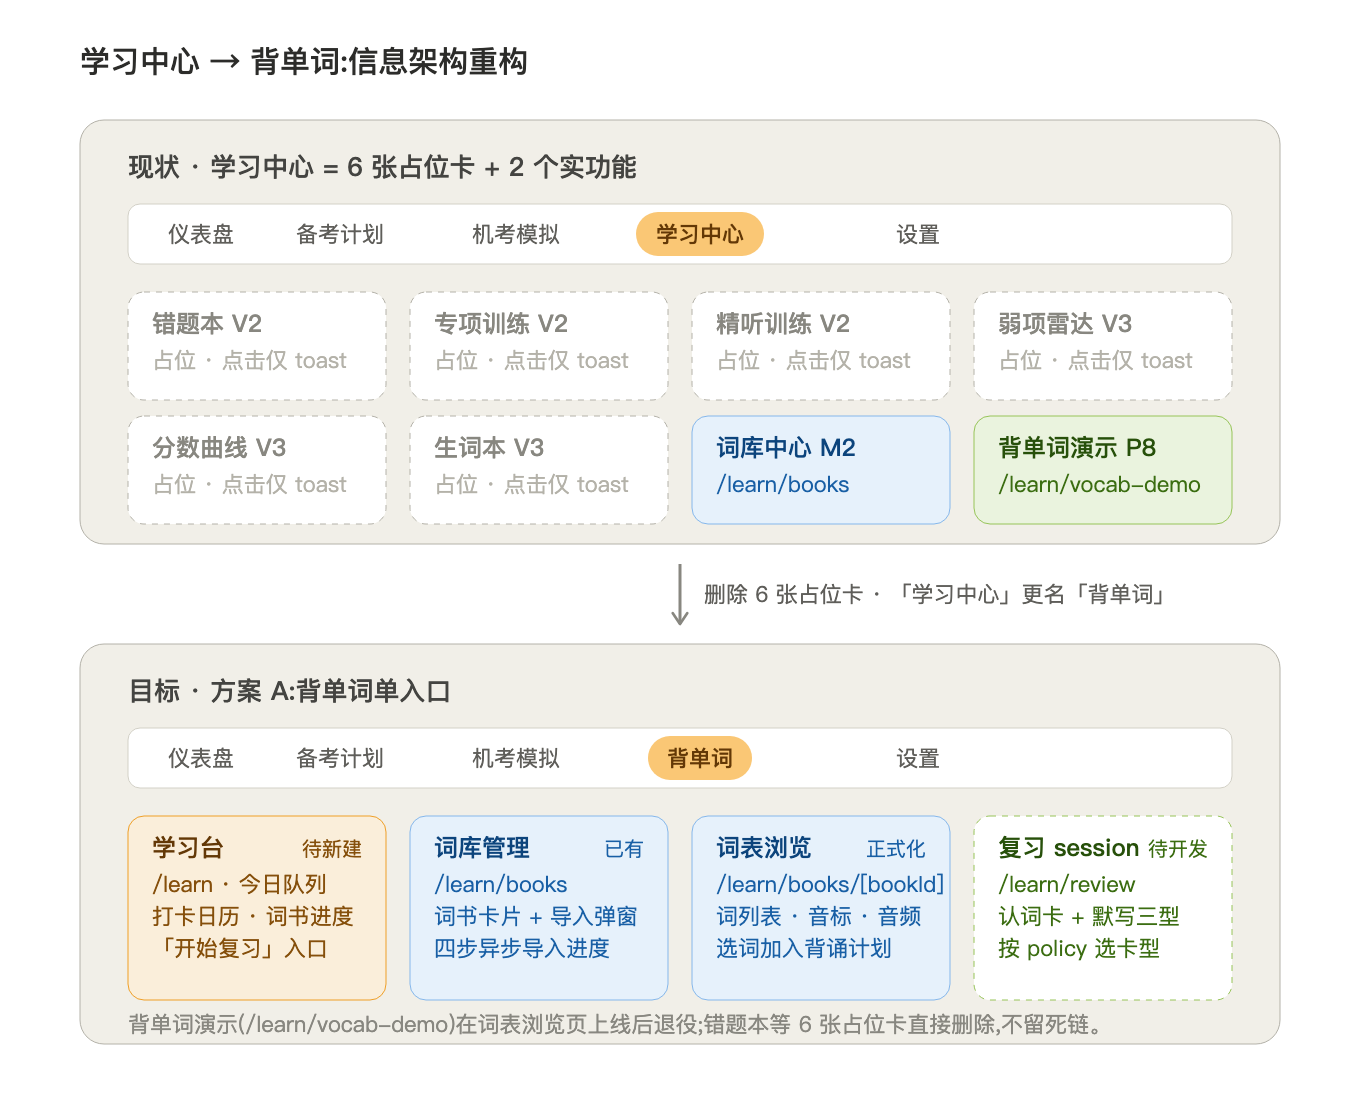
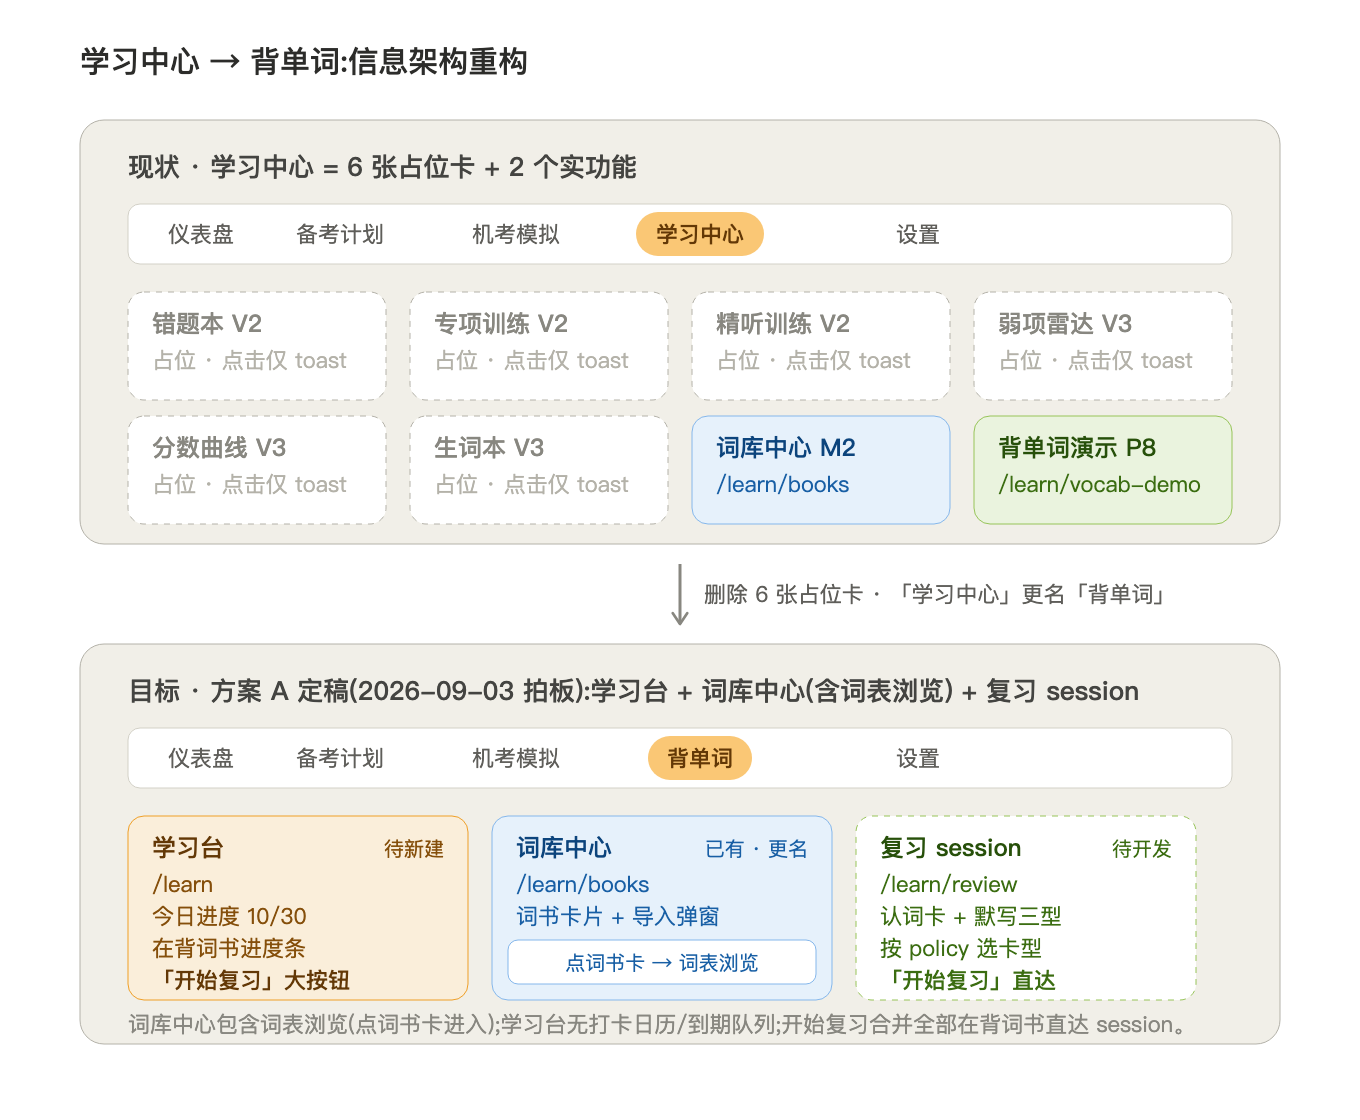
docs: 编排规划定稿 v1.1(词库中心含词表浏览/学习台今日进度+词书进度条/开始复习直达session)

Changed region(s): [[0.0926, 0.7188, 0.8956, 0.9375], [0.2162, 0.5938, 0.8338, 0.625]]

diff --git a/docs/学习中心重构-背单词页面编排规划.md b/docs/学习中心重构-背单词页面编排规划.md
@@ -1,7 +1,7 @@
 # 学习中心重构 · 背单词页面编排规划
 
-> 版本 v1.0 · 2026-09-03 · 状态:**规划待拍板,未动手**
-> 决策来源:用户拍板——学习中心 6 张占位卡(错题本/专项训练/精听训练/弱项雷达/分数曲线/生词本)全部不需要,学习中心整个页面去掉;聚焦把**背单词**和**词库管理**做好。
+> 版本 v1.1 · 2026-09-03 · 状态:**方案定稿(已拍板),未动手**
+> 决策来源:用户拍板——学习中心 6 张占位卡全部删除;词库管理改名**词库中心**且**包含词表浏览**(点词书卡进入);学习台不做到期队列、不做打卡日历,改为**今日进度 10/30 + 词书进度条 + 开始复习大按钮**。
 
 ![信息架构前后对比](assets/vocab-ia/ia-before-after.png)
 
@@ -10,62 +10,69 @@
 | 位置 | 现状 | 判定 |
 |---|---|---|
 | topbar「学习中心」 `/learn` | 8 张功能卡,6 张纯占位(点击仅 toast) | **整页删除** |
-| `/learn/books` 词库中心 | 已上线:卡片网格 + 新建/导入弹窗 + 四步进度 | **保留,升级为一级页面** |
+| `/learn/books` 词库中心 | 已上线:卡片网格 + 新建/导入弹窗 + 四步进度 | **保留,更名「词库中心」** |
 | `/learn/vocab-demo` 背单词演示 | P8 垂直切片:词列表 + 详情 + 音频,写死 ielts-core-pilot | 过渡保留,词表浏览页上线后**退役** |
 | 顶部导航 | 仪表盘 / 备考计划 / 机考模拟 / 学习中心 / 设置 | 「学习中心」→「背单词」 |
 
 全站对 `/learn` 的引用仅 3 处:topbar 导航项、`learn/page.tsx` 自身、vocab-demo 页头的返回链接——删除成本低,无死链风险(逐处处理)。
 
-## 2. 页面编排方案(推荐 A)
+## 2. 页面编排(定稿)
 
-### 方案 A:背单词单入口,四页动线(推荐)
-
-导航只留一个「背单词」入口(挂 `/learn`),底下四个页面各司其职:
+导航只留一个「背单词」入口(挂 `/learn`),三个页面:
 
 | 页面 | 路由 | 状态 | 职责 |
 |---|---|---|---|
-| **学习台** | `/learn` | 待新建 | 背单词的"家":今日到期队列 N 词、打卡日历、词书进度条、大按钮「开始复习」。学习动力集中在这一页 |
-| **词库管理** | `/learn/books` | 已有 | 词书卡片 + 新建/导入弹窗(TTS/生图策略)。入口从学习台顶部放一个「管理词库」次级按钮 |
-| **词表浏览** | `/learn/books/[bookId]` | 待新建(正式化 vocab-demo) | 词表浏览、试听、看释义;每词「加入/移出背诵计划」勾选。这是选词的地方 |
+| **学习台** | `/learn` | 待新建 | 今日进度 10/30、在背词书进度条、大按钮「开始复习」 |
+| **词库中心** | `/learn/books` | 已有(更名) | 词书卡片 + 新建/导入弹窗;**点词书卡 → 进入词表浏览** |
+| **词表浏览**(词库中心内) | `/learn/books/[bookId]` | 待新建(正式化 vocab-demo) | 词表浏览、试听、看释义;每词「加入/移出背诵计划」勾选 |
 | **复习 session** | `/learn/review` | 待开发 | 认词卡 + 默写三型,交互照抄 card-demo 原型,卡型按 vocab-card-policy 抽取 |
 
-**为什么学习台放 `/learn` 而不是词库**:背单词是高频动作(每天打开就点"开始复习"),词库管理是低频动作(导完一次很少动)。高频页面占据一级路由,低频管理页收进二级——这是"学习台为家,词库为库"的编排逻辑。
+结构说明:词表浏览不是第四个一级页面,它是词库中心的下钻页(`/learn/books/[bookId]` 本就是子路由),与用户「词库中心应包含词表浏览」的直觉一致。
 
-**动线**:词库导入 → 词表选词入计划 → 学习台看到今日任务 → 进复习 session → 答完回学习台,FSRS 算出明日到期。
+**动线**:词库中心导词 → 点词书卡进词表选词入计划 → 学习台看到今日进度 → 点「开始复习」进 session → 答完回学习台进度 +1,FSRS 算出明日到期。
 
-### 方案 B:词库为家(备选)
+### 学习台首屏设计(回答两个拍板问题)
 
-`/learn` 直接就是现在的词库中心(词书卡片即首屏),学习台作为词书卡片上的「继续学习」按钮进入。省一个页面,但今日队列、打卡日历、复习入口没有统一落脚点,每次学习都要先过词书选择——高频动作被低频页面挡在前面。**不推荐**,仅当用户想要"页面越少越好"时选它。
+**① 今日进度 10/30 怎么放**:不用单独卡片,直接做进「开始复习」按钮的本体——按钮上方一根进度条(已完成 10 / 今日计划 30),按钮文案带数字(如「开始复习 · 还剩 20 词」)。完成 30/30 后按钮变「今日已完成 ✓」的完成态,但仍可点进去自由复习。
+
+**② 词书进度条怎么展示**:在学习台下半区按**在背词书分行**展示,每行 = 词书名 + 细进度条 + 「已学 X / 总 Y 词」。多本在背就多行;只有一本时同样展示(保持结构稳定)。每行可点,直达该词书的词表浏览页。数据源现成:`/api/vocab-book` 已返回每书 imageCount,补一个 per-book 已学计数即可(word_progress 按 bookId 聚合)。
+
+**③ 「开始复习」点击后去哪**:**`/learn/review` 复习 session,是的**。session 一次合并**全部在背词书**的今日到期词(FSRS due ≤ now),不按词书拆分——背单词的用户心智是"今天要背完今天的量",不是"先背 A 书再背 B 书"。词书只作为进度展示维度,不作为复习入口维度。将来若要"只复习某本书",在词书进度条行尾加个小复习按钮即可,首版不做。
+
+![背单词学习动线](assets/vocab-ia/learn-flow.png)
 
 ## 3. 删除与保留清单
 
-**删除(方案 A 落地时一次做)**:
+**删除(落地时一次做)**:
 - `src/app/(shell)/learn/page.tsx` 现内容(8 卡占位页)→ 被「学习台」重写取代
 - topbar「学习中心」label → 「背单词」
 - vocab-demo 页头「← 学习中心」返回链接(随 vocab-demo 退役一并处理)
 
 **保留不动**:
-- `/learn/books` 全部(页面 + `/api/vocab-book` 系列接口)
+- `/learn/books` 全部(页面 + `/api/vocab-book` 系列接口),仅页面标题文案改「词库中心」
 - `/api/vocab-study-plan`(选词入计划 API 已就绪,词表浏览页直接消费)
-- word_progress / word_review_log 数据层与 FSRS 调度(学习台"今日 N 词"的数据源)
+- word_progress / word_review_log 数据层与 FSRS 调度(学习台"今日进度 10/30"的数据源)
 - `vocab-card-policy.ts`(复习 session 选卡型的既定约束)
 - 设置页「备考」分区各卡(阈值/配图风格/音色都属于背单词,留在设置页不动)
 
 **退役(条件触发)**:
 - `/learn/vocab-demo`——等 `/learn/books/[bookId]` 词表浏览页上线并覆盖其能力(词列表/音标/音频/释义)后删除。删前它是唯一能听音频、看词详情的界面,先留着不碍事。
 
-## 4. 实施顺序建议(拍板后再排任务)
+## 4. 实施顺序建议
 
-1. **S1 门户切换**(小):topbar 改名;`/learn` 先用一个极简学习台占位(今日到期数 + 开始复习按钮 + 管理词库入口),让导航语义先正确
-2. **S2 词表浏览**(中):`/learn/books/[bookId]` 正式化 vocab-demo 的能力 + 「加入背诵计划」勾选(word_progress 联动)
-3. **S3 复习 session**(大):`/learn/review` 移植 card-demo 交互(认词卡 + 默写三型 + 音效 + 判分),接 vocab-card-policy 与 FSRS 回写
-4. **S4 学习台完整版**(中):打卡日历、词书进度、复习完成回执;vocab-demo 退役
+1. **S1 门户切换**(小):topbar 改名;`/learn` 先用极简学习台占位(今日进度 + 开始复习按钮 + 词库中心入口),让导航语义先正确
+2. **S2 词库中心下钻**(中):`/learn/books/[bookId]` 词表浏览页正式化 vocab-demo 能力 + 「加入背诵计划」勾选(word_progress 联动);词书卡整体可点
+3. **S3 复习 session**(大):`/learn/review` 移植 card-demo 交互(认词卡 + 默写三型 + 音效 + 判分),接 vocab-card-policy 与 FSRS 回写;「开始复习」在 S3 前先指向占位页,S3 完成后直达
+4. **S4 学习台完整版**(中):词书分行进度条(真实数据)、复习完成回执;vocab-demo 退役
 
-S1 独立可交付;S2/S3 顺序可互换(S3 也可先行,用 vocab-demo 凑合选词);S4 收尾。
+S1 独立可交付;S2/S3 顺序可互换(S3 也可先行);S4 收尾。
 
-## 5. 待拍板问题
+## 5. 拍板记录
 
-1. **方案 A vs B**:推荐 A(学习台为家);若你更想少一个页面选 B。
-2. **「背单词」导航名**:就叫「背单词」,还是「词汇」/「单词」?
-3. **学习台首屏内容**:最小版(队列+开始按钮)先行,还是直接把打卡日历做进 S1?(建议最小先行,日历归 S4)
-4. **vocab-demo 退役时点**:S2 上线即删,还是观察一阵再删?(建议 S3 完成后删,S2 期间留作音频兜底)
+| 问题 | 决定 |
+|---|---|
+| 方案 A(学习台为家) vs B(词库为家) | **A**,2026-09-03 拍板 |
+| 导航名 | **「背单词」**(隐含接受,未另行反对) |
+| 词库管理命名 | **改名「词库中心」**,且包含词表浏览(点词书卡进入) |
+| 学习台内容 | **去掉**今日到期队列、打卡日历;改为**今日进度 10/30** + 词书进度条 + 开始复习大按钮 |
+| 开始复习去哪 | 复习 session `/learn/review`,一次合并全部在背词书 |
